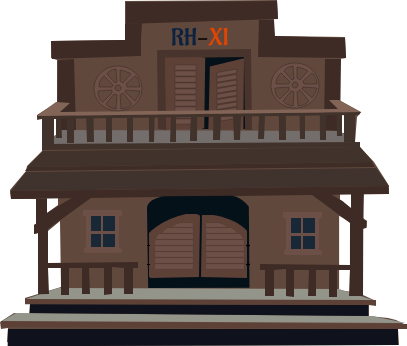
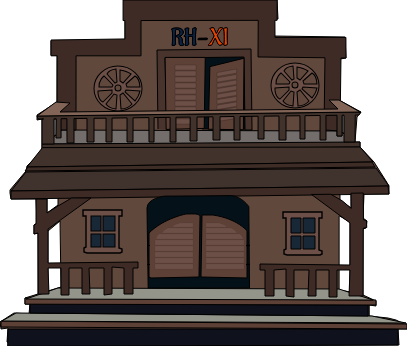
working on assets placement

diff --git a/apps/web/src/components/landing/About.tsx b/apps/web/src/components/landing/About.tsx
@@ -49,9 +49,9 @@ export default function About() {
 				>
 					<div className="relative flex justify-center w-[25%]">
 						<Image
-							className="relative w-[40%] h-[55%]"
+							className="absolute left-[50%] bottom-[70%] w-[60%] h-[100%] rotate-[6.2rad]"
 							src={"/img/saloon.png"}
-							alt="Sign"
+							alt="Saloon"
 							width={100}
 							height={650}
 							unoptimized={true}
@@ -59,18 +59,26 @@ export default function About() {
 					</div>
 					<div className="relative flex justify-center w-[50%]">
 						<Image
-							className="relative w-[40%] h-[55%]"
-							src={"/img/sign.png"}
+							className="absolute bottom-[65%] w-[725px] h-[750px]"
+							src={"/img/ufo.svg"}
 							alt="Sign"
-							width={100}
-							height={650}
+							width={431}
+							height={4}
 							unoptimized={true}
 						/>
 					</div>
 					<div className="relative flex justify-center w-[25%]">
 						<Image
-							className="relative w-[40%] h-[55%]"
-							alt="Sign"
+							className="relative bottom-[20%] right-[50%] w-[20%] h-[55%] rotate-[6.2rad]"
+							alt="Cactus1"
+							src={"/img/cactus1.png"}
+							width={100}
+							height={650}
+							unoptimized={true}
+						/>
+						<Image
+							className="relative bottom-[25%] right-[50%] w-[20%] h-[55%] rotate-[6.4rad]"
+							alt="Cactus2"
 							src={"/img/cactus1.png"}
 							width={100}
 							height={650}
